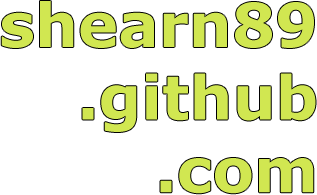
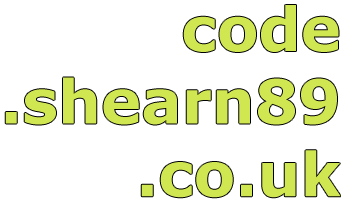
updating header to new address

diff --git a/index.html b/index.html
@@ -2,7 +2,7 @@
 <html xmlns="http://www.w3.org/1999/xhtml">
 <head>
     <meta http-equiv="Content-Type" content="text/html; charset=utf-8" />
-    <title>shearn89.github.com - Code. Simple.</title>
+    <title>code.shearn89.co.uk - Code. Simple.</title>
     <link href="style.css" rel="stylesheet" type="text/css" />
     <meta name="description" content="" />
     <meta name="keywords" content="alex shearn, is that it" />
@@ -12,7 +12,7 @@
 </head>
 <body>
 	<div class="header">
-    	<a href="http://shearn89.github.com"><img src="images/header.png" alt="shearn89.github.com"/></a>
+    	<a href="http://code.shearn89.co.uk"><img src="images/header.png" alt="code.shearn89.co.uk"/></a>
     </div>
     <div id="fork"><a href="http://github.com/shearn89/" target="_blank"><img src="images/forkme.png" alt="fork me on github!"/></a></div>
     <div class="menu">
@@ -26,7 +26,7 @@
         </ul>
     </div>
     <div id="welcome">
-    	<h1>Welcome to shearn89.github.com</h1>
+    	<h1>Welcome to code.shearn89.co.uk</h1>
         <p>Click an item on the left for more info on my projects.</p>
         <p>Get in touch:
         <ul><li>Website: <a href="http://isthat.it/main.html">isthat.it</a></li>
@@ -44,7 +44,7 @@
         <div id="textinthelabs">
         	<h1>inthelabs</h1>
         	<p>inthelabs is a Ruby client/server with a Rails web frontend. It allows you to see who's in the labs at any point, so that you can decide whether to stay in bed and work on your laptop, or head over to AT to meet up/hang out/code/eat/mingle/etc. It may eventually get some facebook connect lovin', but we'll see.</p>
-            <p>For more info, see <a href="http://shearn89.github.com/inthelabs">the project page</a>.</p>
+            <p>For more info, see <a href="http://code.shearn89.co.uk/inthelabs">the project page</a>.</p>
         </div>
         <div id="textmassprint">
         	<h1>massprint</h1>
